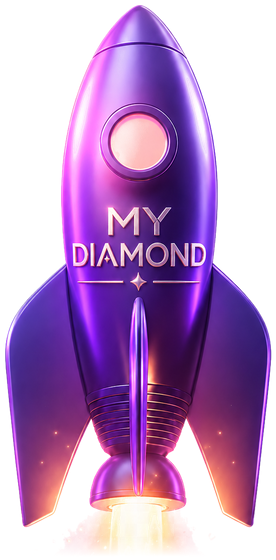
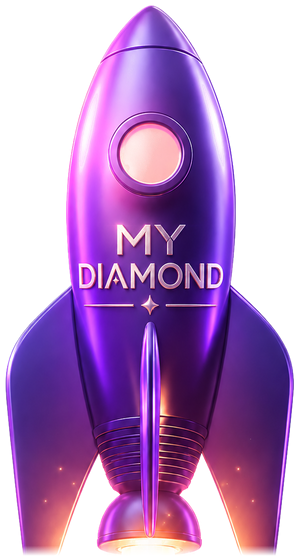
fix(ads): cohete sin humo estático (corte en la boquilla) + más humo/partículas
- Imagen recortada justo en la boquilla del motor → se quita TODA la llama y humo
  estático que traía la imagen; queda solo el cohete
- El escape lo hace la animación: +humo (20 puffs), +chispas (54), y un resplandor
  cálido de motor que pulsa
- Cache-bust /cohete.png?v=3

next build OK.

diff --git a/src/app/dashboard/services/ads/campaign/[strategyId]/page.tsx b/src/app/dashboard/services/ads/campaign/[strategyId]/page.tsx
@@ -39,22 +39,24 @@ const PUBLISH_STAGES = [
 // Partículas de escape del cohete (humo + chispas), emitidas desde la base.
 // Valores derivados del índice (deterministas) para no romper la hidratación.
 function RocketFX() {
-    const smoke = Array.from({ length: 10 }, (_, i) => ({
-        sx: ((i % 5) - 2) * 13, sy: 46 + (i % 3) * 24, size: 8 + (i % 4) * 4,
-        dur: 1.2 + (i % 4) * 0.25, delay: (i % 6) * 0.18,
+    // Más humo y más chispas (escape potente). Colores de la barra + cálidos.
+    const smoke = Array.from({ length: 20 }, (_, i) => ({
+        sx: ((i % 7) - 3) * 13, sy: 46 + (i % 4) * 24, size: 11 + (i % 5) * 5,
+        dur: 1.1 + (i % 5) * 0.22, delay: (i % 9) * 0.13,
     }))
-    // Muchas chispitas pequeñas en los colores de la barra (rosa/morado/azul) + cálidos
-    const spark = Array.from({ length: 32 }, (_, i) => ({
-        tx: ((i % 9) - 4) * 9, ty: 40 + (i % 6) * 15, size: 2 + (i % 3),
-        dur: 0.45 + (i % 6) * 0.1, delay: (i % 13) * 0.05,
-        color: ['#FFD166', '#FF7A1A', '#FF2D95', '#B735B8', '#4C97D8', '#FBBF24'][i % 6],
+    const spark = Array.from({ length: 54 }, (_, i) => ({
+        tx: ((i % 11) - 5) * 9, ty: 38 + (i % 7) * 15, size: 2 + (i % 3),
+        dur: 0.4 + (i % 6) * 0.1, delay: (i % 16) * 0.045,
+        color: ['#FFD166', '#FF7A1A', '#FF2D95', '#B735B8', '#4C97D8', '#FBBF24', '#FFF3C4'][i % 7],
     }))
     return (
-        <div className="absolute" style={{ bottom: 30, left: '50%' }}>
+        <div className="absolute" style={{ bottom: 32, left: '50%' }}>
+            {/* Resplandor cálido del motor (pulsa) */}
+            <span className="absolute rounded-full animate-pulse" style={{ left: -30, top: -16, width: 60, height: 46, background: 'radial-gradient(circle, rgba(255,190,90,0.6), rgba(255,120,40,0.22) 55%, transparent 76%)', filter: 'blur(3px)' }} />
             {smoke.map((s, i) => (
                 <span key={'sm' + i} className="absolute rounded-full" style={{
                     left: -s.size / 2, top: 0, width: s.size, height: s.size,
-                    background: 'radial-gradient(circle, rgba(210,210,235,0.42), rgba(210,210,235,0) 70%)',
+                    background: 'radial-gradient(circle, rgba(214,214,238,0.5), rgba(214,214,238,0) 70%)',
                     ['--sx']: s.sx + 'px', ['--sy']: s.sy + 'px',
                     animation: `rk-smoke ${s.dur}s ease-out ${s.delay}s infinite`,
                 } as any} />
@@ -115,7 +117,7 @@ function PublishProgress({ active, failed }: { active: boolean; failed: boolean 
                         filter: 'drop-shadow(0 10px 26px rgba(255,120,40,0.6)) drop-shadow(0 8px 18px rgba(5,11,20,0.8))',
                     }}>
                         {imgOk ? (
-                            <img src="/cohete.png?v=2" alt="" draggable={false} onError={() => setImgOk(false)}
+                            <img src="/cohete.png?v=3" alt="" draggable={false} onError={() => setImgOk(false)}
                                 className="block select-none" style={{ height: 172, width: 'auto' }} />
                         ) : (
                             <span className="text-8xl block leading-none select-none">🚀</span>
